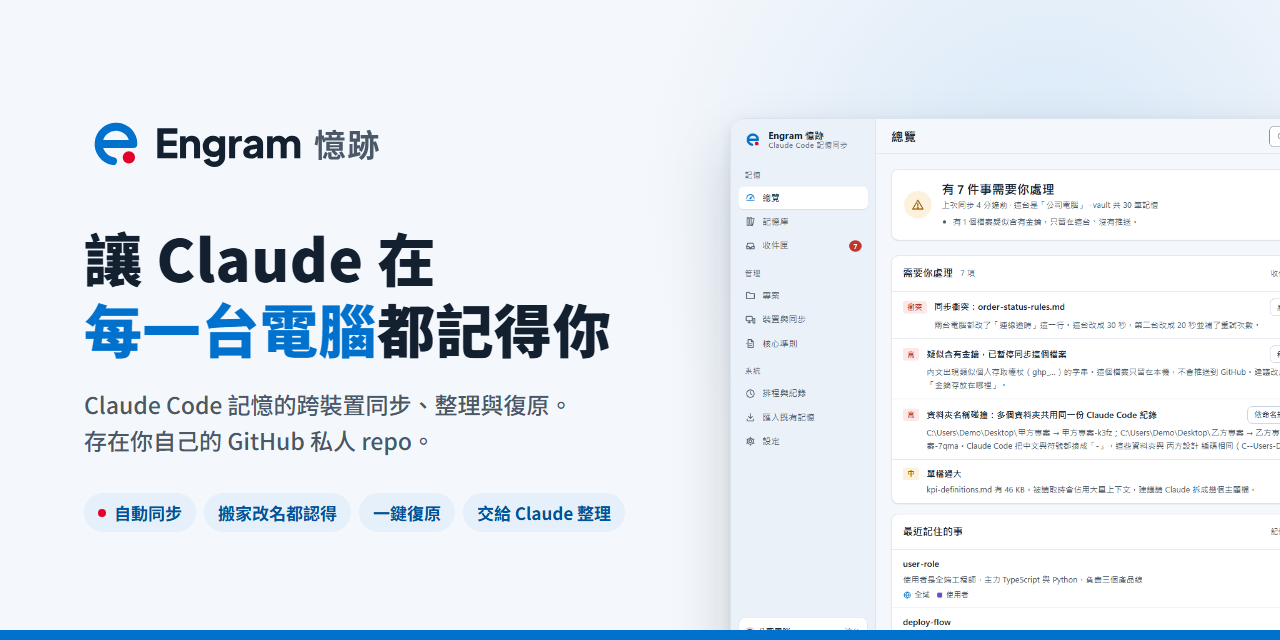
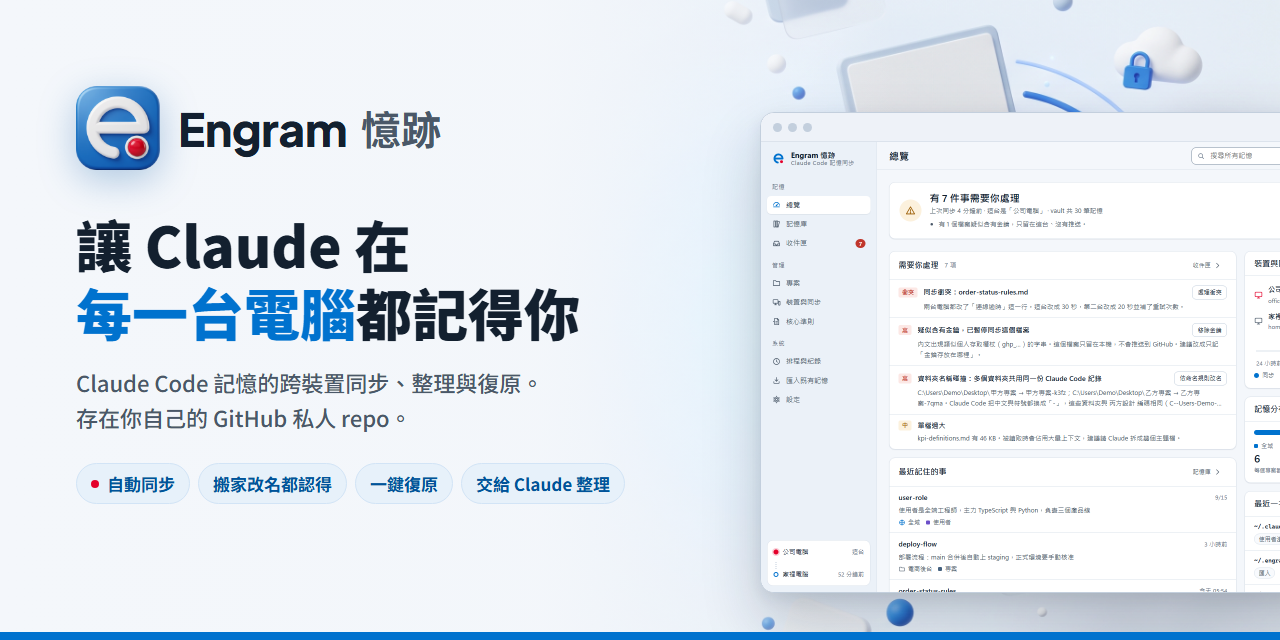
文件：新增主視覺、插圖與功能圖示，更新社群預覽圖
- README：真實介面截圖合成的主視覺、痛點插圖、8 個功能圖示、運作方式圖（取代 Mermaid）、AI 安裝三步驟圖、隱私說明圖、3D 標誌
- 快速開始加入匯入五步驟圖；使用說明加入運作方式與三種範圍圖；AI 安裝手冊加入三步驟圖
- 社群預覽圖改為 3D 標誌＋標語＋真實截圖
- 插圖以 Gemini Nano Banana 2.1 產生；介面截圖仍為真實畫面，未經 AI 修改

diff --git a/docs/快速開始.md b/docs/快速開始.md
@@ -50,6 +50,10 @@
 
 如果你已經用 Claude Code 一陣子，電腦裡會有舊的記憶。在管理介面的「匯入既有記憶」依序操作：
 
+<p align="center">
+  <img src="assets/illustrations/import-flow.webp" alt="五個步驟：產生計畫、檢查範圍、沙盒演練、套用、隨時還原" width="880">
+</p>
+
 1. **產生計畫**：Engram 列出每筆記憶屬於哪個專案、建議的範圍與動作，重複的內容和較舊的版本會自動略過。這一步不寫入任何東西。
 2. **檢查建議的範圍**：判斷原則只有一句——**換到另一台電腦還成立嗎？** 不成立的放「單機」；成立的話再問**換到別的專案還成立嗎？** 成立的放「全域」，不成立的放「專案」。
 3. **開始演練**：在複本上完整跑一次匯入、驗證與還原，不碰真實檔案，約 20 秒。四項檢查都打勾後，「套用計畫」才能按。

diff --git a/AI 幫你快速安裝.md b/AI 幫你快速安裝.md
@@ -1,5 +1,9 @@
 # AI 幫你快速安裝 Engram
 
+<p align="center">
+  <img src="docs/assets/illustrations/install-with-ai.webp" alt="三個步驟：1 複製一段話、2 貼給 Claude Code、3 完成，記憶開始同步" width="880">
+</p>
+
 > **給使用者**：打開 Claude Code，把下面這段話整段貼上，Claude 就會照這份手冊幫你安裝。全程約 10 分鐘，每個會改動電腦的步驟都會先問過你。
 >
 > ```text
